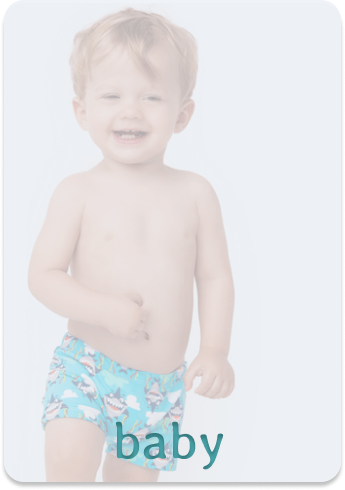
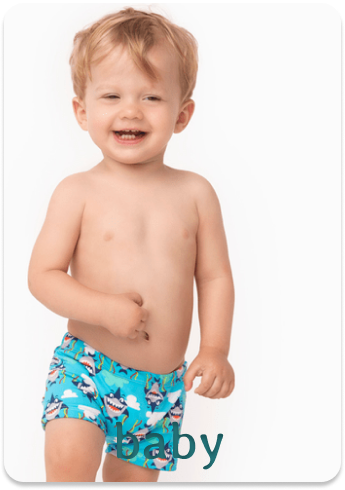
hover over 90%

diff --git a/ReactRouters/src/routes/ProductTypes/Male.jsx b/ReactRouters/src/routes/ProductTypes/Male.jsx
@@ -133,16 +133,16 @@ const filteredProdutosWithPrice = filteredProdutos.filter((produto) => {
 
 
         <div className="container-roupas">
-            <div className="roupa" style="background-image:url('/assets/male-baby.png');">
+            <div className="roupa" style={{ backgroundImage: "url('/assets/male-baby.png')" }}>
               <Link to="/male/male-baby"></Link>
             </div>
+  
 
-
-           <div className="roupa" style="background-image:url('/assets/male-children.png');">
+           <div className="roupa" style={{ backgroundImage: "url('/assets/male-children.png')" }}>
             <Link to="/male/male-children"></Link>
           </div>
 
-          <div className="roupa" style="background-image:url('/assets/male-juvenile.png');">
+          <div className="roupa" style={{ backgroundImage: "url('/assets/male-juvenile.png')" }}>
             <Link to="/male/male-juvenile"></Link>
           </div>
         </div>

diff --git a/ReactRouters/src/styles/ProductTypes/Male.css b/ReactRouters/src/styles/ProductTypes/Male.css
@@ -69,14 +69,14 @@
 .container-roupas{
   position: relative;
   display: flex;
-  gap: 70px;
+  gap: 60px;
 }
 
 .container-roupas .roupa{
 position: relative;
-top: 10px;
-width: 300px;
-height: 300px;
+top: 20px;
+width: 350px;
+height: 350px;
 background: #fff;
 border-radius: 25px;
 background-size: cover;
@@ -86,18 +86,18 @@ cursor: pointer;
 
 .container-roupas .roupa:hover {
 scale: 0.8;
-transition: .5s;
+transition: .2s;
 }
 
 .container-roupas .roupa::before{
 content: '';
 position: absolute;
-width: 100%;
-height: 100%;
+width: 350px;
+height: 350px;
 background: inherit;
 border-radius: 25px;
 background-size: cover;
-filter: blur(25px);
+filter: blur(10px);
 opacity: 0.5;
 z-index: 1;
 transition: .2s;
